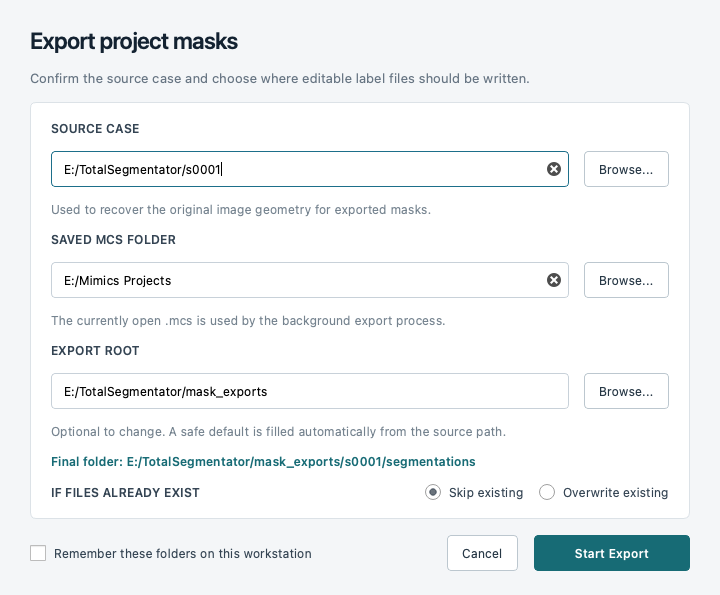
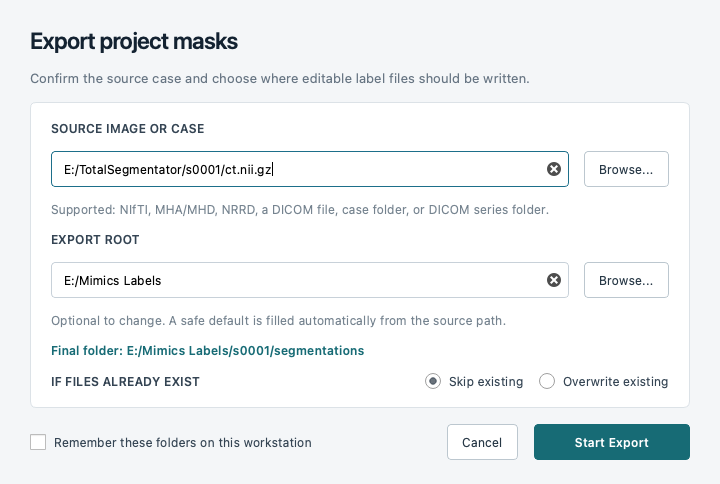
Simplify mask export path selection

diff --git a/runtime_py35/mimics_export.py b/runtime_py35/mimics_export.py
@@ -221,7 +221,7 @@ def _find_mimics_exe():
     return None
 
 
-def _launch_background_batch_export(ts_root, cases_filter, axes, flips, label_output_root=None, overwrite_existing=False, case_dirs=None, mcs_output_dir=None):
+def _launch_background_batch_export(ts_root, cases_filter, axes, flips, label_output_root=None, overwrite_existing=False, case_dirs=None, mcs_output_dir=None, mcs_paths=None, source_image_paths=None):
     """Launch batch export in a separate background Mimics process."""
     output_dir = os.path.abspath(mcs_output_dir) if mcs_output_dir else _resolve_export_output_dir(ts_root)
     if not os.path.isdir(output_dir):
@@ -245,6 +245,8 @@ def _launch_background_batch_export(ts_root, cases_filter, axes, flips, label_ou
             "label_output_root": os.path.abspath(label_output_root) if label_output_root else "",
             "overwrite_existing": bool(overwrite_existing),
             "case_dirs": dict(case_dirs or {}),
+            "mcs_paths": dict(mcs_paths or {}),
+            "source_image_paths": dict(source_image_paths or {}),
         },
     )
     with open(runner_path, "w") as f:
@@ -1024,7 +1026,7 @@ def _current_project_path():
     return ""
 
 
-def _active_source_case_dir():
+def _active_source_path():
     try:
         image = mimics.data.images.get_active()
     except Exception:
@@ -1032,15 +1034,14 @@ def _active_source_case_dir():
     source = _metadata_get(image, SOURCE_IMAGE_PATH_METADATA, "") if image is not None else ""
     if not source:
         return ""
-    source = os.path.abspath(str(source))
-    return os.path.dirname(source) if os.path.isfile(source) else source
+    return os.path.abspath(str(source))
 
 
-def _run_main_with_args(args):
+def _run_main_with_args(args, source_info_override=None):
     previous = list(sys.argv)
     try:
         sys.argv = [previous[0]] + list(args)
-        return main()
+        return main(source_info_override=source_info_override)
     finally:
         sys.argv = previous
 
@@ -1052,23 +1053,23 @@ def _launch_external_export_setup():
     if not project_path or not project_path.lower().endswith(".mcs"):
         raise RuntimeError("Save the current Mimics project before exporting masks.")
     case_id = _current_project_case_id() or os.path.splitext(os.path.basename(project_path))[0]
-    source_initial = _active_source_case_dir()
+    source_initial = _active_source_path()
 
     def submitted(selection):
         source = str(selection.get("source_path", "") or "")
         export_root = str(selection.get("output_path", "") or "")
-        mcs_dir = str(selection.get("mcs_dir", "") or "")
-        if not source or not export_root or not mcs_dir:
-            raise RuntimeError("The source, saved project, and export paths are required.")
+        source_info = selection.get("case_info") or {}
+        if not source or not export_root or not source_info.get("image"):
+            raise RuntimeError("The source image and export destination are required.")
         args = [
-            "--case-dir", source,
-            "--mcs-dir", mcs_dir,
+            "--case-dir", str(source_info.get("case_dir") or source),
+            "--mcs-path", project_path,
             "--label-output-root", export_root,
             "--external-setup",
         ]
         if selection.get("conflict_policy") == "overwrite":
             args.append("--overwrite-source")
-        _run_main_with_args(args)
+        _run_main_with_args(args, source_info_override=source_info)
 
     return io_setup_mimics.launch(
         "export_masks",
@@ -1076,7 +1077,6 @@ def _launch_external_export_setup():
         {
             "case_id": case_id,
             "source_initial": source_initial,
-            "mcs_dir_initial": os.path.dirname(project_path),
             # mimics_output_dir controls .mcs storage only. It must never
             # silently redirect exported label files.
             "configured_output": "",
@@ -1087,7 +1087,7 @@ def _launch_external_export_setup():
 
 # -- Single case export -------------------------------------------------
 
-def _export_masks_and_build_params(case_dir, axes, flips, work_dir, output_seg_dir=None, export_space="source_image", mask_names=None, overwrite_existing=None):
+def _export_masks_and_build_params(case_dir, axes, flips, work_dir, output_seg_dir=None, export_space="source_image", mask_names=None, overwrite_existing=None, source_image_path=None):
     """Export masks to .u8 buffers and build bridge params. Returns (bridge_params, manifest) or None."""
     print("Exporting masks to: {0}".format(case_dir))
 
@@ -1124,7 +1124,9 @@ def _export_masks_and_build_params(case_dir, axes, flips, work_dir, output_seg_d
             active_image = mimics.data.masks[0].image if len(mimics.data.masks) else None
         except Exception:
             active_image = None
-    source_image_path = _metadata_get(active_image, SOURCE_IMAGE_PATH_METADATA, "") if active_image is not None else ""
+    source_image_path = str(source_image_path or "")
+    if not source_image_path and active_image is not None:
+        source_image_path = _metadata_get(active_image, SOURCE_IMAGE_PATH_METADATA, "")
     if source_image_path:
         bridge_params["source_image_path"] = str(source_image_path)
     if output_seg_dir:
@@ -1264,7 +1266,7 @@ def run_background_batch_export(config_path):
         for index, case_info in enumerate(cases):
             case_id = case_info["case_id"]
             case_dir = case_info["case_dir"]
-            mcs_path = os.path.join(output_dir, case_id + ".mcs")
+            mcs_path = str((config.get("mcs_paths") or {}).get(case_id) or os.path.join(output_dir, case_id + ".mcs"))
             work_dir = os.path.join(output_dir, case_id + "_export_work")
             _write_json_atomic(
                 os.path.join(export_root, "_export_batch_status.json"),
@@ -1301,6 +1303,7 @@ def run_background_batch_export(config_path):
                     export_space=export_space,
                     mask_names=mask_names,
                     overwrite_existing=(True if label_staging_dir else overwrite_existing),
+                    source_image_path=(config.get("source_image_paths") or {}).get(case_id),
                 )
                 try:
                     mimics.file.close_project()
@@ -1359,7 +1362,7 @@ def run_background_batch_export(config_path):
 
 # -- Main entry ---------------------------------------------------------
 
-def main():
+def main(source_info_override=None):
     """Entry point.
 
     Usage:
@@ -1386,6 +1389,7 @@ def main():
     label_output_root = None
     overwrite_existing = False
     mcs_dir = None
+    mcs_path_override = None
     external_setup = False
 
     args = sys.argv[1:]
@@ -1414,6 +1418,9 @@ def main():
         elif arg == "--mcs-dir" and i + 1 < len(args):
             mcs_dir = args[i + 1]
             i += 2
+        elif arg == "--mcs-path" and i + 1 < len(args):
+            mcs_path_override = args[i + 1]
+            i += 2
         elif arg == "--overwrite-source":
             overwrite_existing = True
             i += 1
@@ -1432,8 +1439,12 @@ def main():
     if case_dir:
         case_id = _current_project_case_id() or os.path.basename(os.path.abspath(case_dir))
         ts_root = os.path.dirname(os.path.abspath(case_dir))
-        output_dir = os.path.abspath(mcs_dir) if mcs_dir else _resolve_export_output_dir(ts_root)
-        mcs_path = os.path.join(output_dir, case_id + ".mcs")
+        if mcs_path_override:
+            mcs_path = os.path.abspath(mcs_path_override)
+            output_dir = os.path.dirname(mcs_path)
+        else:
+            output_dir = os.path.abspath(mcs_dir) if mcs_dir else _resolve_export_output_dir(ts_root)
+            mcs_path = os.path.join(output_dir, case_id + ".mcs")
         if not os.path.isfile(mcs_path):
             mimics.dialogs.message_box(
                 title="Export Error",
@@ -1455,6 +1466,8 @@ def main():
             overwrite_existing=overwrite_existing,
             case_dirs={case_id: os.path.abspath(case_dir)},
             mcs_output_dir=output_dir,
+            mcs_paths={case_id: mcs_path},
+            source_image_paths={case_id: str((source_info_override or {}).get("image") or "")},
         )
         if process is None:
             mimics.dialogs.message_box(

diff --git a/tools/io_path_setup_ui.py b/tools/io_path_setup_ui.py
@@ -81,6 +81,11 @@ def discover_single_source(source):
             if _medical_file(os.path.join(case_dir, name))
         ]
         allow_masks = len(sibling_images) <= 1
+    elif os.path.isfile(selected) and selected.lower().endswith(".dcm"):
+        case_dir = os.path.dirname(selected)
+        case_id = os.path.basename(case_dir.rstrip("\\/")) or _image_stem(selected)
+        image = case_dir
+        allow_masks = True
     elif os.path.isdir(selected):
         case_dir = selected
         case_id = os.path.basename(case_dir.rstrip("\\/")) or "case"
@@ -136,7 +141,7 @@ def run_ui(context, preview_path=""):
     window.setObjectName("ioWindow")
     window.setModal(False)
     window.setMinimumWidth(680)
-    window.resize(720, 510 if mode == "export_masks" else 440)
+    window.resize(720, 455 if mode == "export_masks" else 440)
     window.setWindowTitle({
         "import_batch": "Import Dataset",
         "import_single": "Import Single Case",
@@ -208,7 +213,7 @@ def run_ui(context, preview_path=""):
                 choose_folder = menu.addAction("Choose case or DICOM folder")
                 action = menu.exec(button.mapToGlobal(QtCore.QPoint(0, button.height())))
                 if action == choose_file:
-                    value, _ = QtWidgets.QFileDialog.getOpenFileName(window, "Choose 3D image", current, "Medical volumes (*.nii *.nii.gz *.mha *.mhd *.nrrd);;All files (*)")
+                    value, _ = QtWidgets.QFileDialog.getOpenFileName(window, "Choose 3D image", current, "Medical volumes (*.nii *.nii.gz *.mha *.mhd *.nrrd *.dcm);;All files (*)")
                 elif action == choose_folder:
                     value = QtWidgets.QFileDialog.getExistingDirectory(window, "Choose case or DICOM folder", current)
                 else:
@@ -224,14 +229,10 @@ def run_ui(context, preview_path=""):
         return edit
 
     source_initial = context.get("source_initial") or remembered_mode.get("source_path", "")
-    if mode == "import_single":
-        source_edit = path_row("SOURCE IMAGE OR CASE", source_initial, file_or_folder=True, hint="Supported: NIfTI, MHA/MHD, NRRD, a case folder, or a DICOM series folder.")
+    if mode in ("import_single", "export_masks"):
+        source_edit = path_row("SOURCE IMAGE OR CASE", source_initial, file_or_folder=True, hint="Supported: NIfTI, MHA/MHD, NRRD, a DICOM file, case folder, or DICOM series folder.")
     else:
-        source_edit = path_row("SOURCE DATASET" if mode == "import_batch" else "SOURCE CASE", source_initial, hint="Required. This path is never modified by import." if mode.startswith("import") else "Used to recover the original image geometry for exported masks.")
-
-    mcs_edit = None
-    if mode == "export_masks":
-        mcs_edit = path_row("SAVED MCS FOLDER", context.get("mcs_dir_initial") or remembered_mode.get("mcs_dir", ""), hint="The currently open .mcs is used by the background export process.")
+        source_edit = path_row("SOURCE DATASET", source_initial, hint="Required. This path is never modified by import.")
 
     output_initial = context.get("output_initial") or remembered_mode.get("output_path", "")
     output_edit = path_row("MCS OUTPUT FOLDER" if mode.startswith("import") else "EXPORT ROOT", output_initial, hint="Optional to change. A safe default is filled automatically from the source path.")
@@ -266,7 +267,7 @@ def run_ui(context, preview_path=""):
             output_preview.setText("Final folder: {0}".format(os.path.join(output, case_id, "segmentations")) if output else "")
         else:
             output_preview.setText("Mimics projects: {0}".format(output) if output else "")
-        submit.setEnabled(bool(source and output and (mcs_edit is None or mcs_edit.text().strip())))
+        submit.setEnabled(bool(source and output))
 
     def output_edited(_text):
         if output_edit.hasFocus() or bool(output_edit.property("chosenByBrowse")):
@@ -276,9 +277,6 @@ def run_ui(context, preview_path=""):
 
     source_edit.textChanged.connect(lambda _text: refresh_default())
     output_edit.textChanged.connect(output_edited)
-    if mcs_edit is not None:
-        mcs_edit.textChanged.connect(lambda _text: refresh_default())
-
     footer = QtWidgets.QHBoxLayout()
     remember = QtWidgets.QCheckBox("Remember these folders on this workstation")
     remember.setChecked(bool(remembered_mode))
@@ -302,18 +300,14 @@ def run_ui(context, preview_path=""):
         if not os.path.exists(source):
             QtWidgets.QMessageBox.warning(window, "Source Not Found", "Choose an existing source file or folder.")
             return
-        if mcs_edit is not None and not os.path.isdir(os.path.abspath(os.path.expanduser(mcs_edit.text().strip()))):
-            QtWidgets.QMessageBox.warning(window, "MCS Folder Not Found", "Choose the folder containing the saved .mcs project.")
-            return
         selection = {"source_path": source, "output_path": output, "remember": bool(remember.isChecked())}
-        if mode == "import_single":
+        if mode in ("import_single", "export_masks"):
             case_info = discover_single_source(source)
             if not case_info:
                 QtWidgets.QMessageBox.warning(window, "Unsupported Source", "No supported 3D image or DICOM folder was found.")
                 return
             selection["case_info"] = case_info
-        if mcs_edit is not None:
-            selection["mcs_dir"] = os.path.abspath(os.path.expanduser(mcs_edit.text().strip()))
+        if mode == "export_masks":
             selection["conflict_policy"] = "overwrite" if overwrite_radio.isChecked() else "skip"
         if remember.isChecked() and state_path:
             state = read_json(state_path, {}) or {}

diff --git a/tools/fake_mimics_flow_test.py b/tools/fake_mimics_flow_test.py
@@ -624,9 +624,15 @@ def test_external_io_setup_routing(fake, tmp):
                 callback({"source_path": str(tmp / "dataset"), "output_path": str(tmp / "chosen_mcs")})
             elif mode == "export_masks":
                 callback({
-                    "source_path": str(tmp / "dataset" / "s0001"),
+                    "source_path": str(tmp / "dataset" / "s0001" / "ct.nii.gz"),
                     "output_path": str(tmp / "chosen_labels"),
-                    "mcs_dir": str(tmp / "saved_projects"),
+                    "case_info": {
+                        "case_id": "s0001",
+                        "image": str(tmp / "dataset" / "s0001" / "ct.nii.gz"),
+                        "case_dir": str(tmp / "dataset" / "s0001"),
+                        "image_type": "medical_image",
+                        "masks": [],
+                    },
                     "conflict_policy": "skip",
                 })
             return 0
@@ -635,7 +641,7 @@ def test_external_io_setup_routing(fake, tmp):
         import_module._python_exe = lambda: "external-python"
         export_module._python_exe = lambda: "external-python"
         import_module._run_main_with_args = lambda args, import_mode=None, case_info_override=None: launched.append(("import", list(args))) or 0
-        export_module._run_main_with_args = lambda args: launched.append(("export", list(args))) or 0
+        export_module._run_main_with_args = lambda args, source_info_override=None: launched.append(("export", list(args), source_info_override)) or 0
         import_module._launch_external_import_setup(None)
 
         project = tmp / "saved_projects" / "s0001.mcs"
@@ -653,9 +659,11 @@ def test_external_io_setup_routing(fake, tmp):
     assert_true("--output-dir" in launched[0][1], "chosen import output was not routed")
     assert_true(str(tmp / "chosen_mcs") in launched[0][1], "chosen import output path missing")
     assert_equal(captured[1][0], "export_masks", "mask export setup mode")
-    assert_true("--mcs-dir" in launched[1][1], "saved project folder was not routed")
+    assert_true("--mcs-path" in launched[1][1], "current project path was not routed")
+    assert_true(str(project) in launched[1][1], "current project path is incorrect")
     assert_true(str(tmp / "chosen_labels") in launched[1][1], "chosen label destination missing")
     assert_true("--overwrite-source" not in launched[1][1], "skip policy became overwrite")
+    assert_equal(launched[1][2]["image"], str(tmp / "dataset" / "s0001" / "ct.nii.gz"), "explicit source image was not routed")
     return "external PySide6 selections route explicit import/export paths"
 
 

diff --git a/tools/test_all.py b/tools/test_all.py
@@ -2412,6 +2412,12 @@ class TestNewFeatures(unittest.TestCase):
         discovered = io_ui.discover_single_source(image_path)
         self.assertEqual("ct", discovered["case_id"])
         self.assertEqual(os.path.abspath(image_path), discovered["image"])
+        dcm_path = os.path.join(case_dir, "slice001.dcm")
+        with open(dcm_path, "wb") as handle:
+            handle.write(b"candidate")
+        dicom_source = io_ui.discover_single_source(dcm_path)
+        self.assertEqual(os.path.abspath(case_dir), dicom_source["image"])
+        self.assertEqual("dicom_candidate", dicom_source["image_type"])
         import_source = inspect.getsource(mimics_import.main)
         export_source = inspect.getsource(mimics_export.main)
         self.assertIn("_launch_external_import_setup", import_source)
@@ -2423,6 +2429,8 @@ class TestNewFeatures(unittest.TestCase):
         export_setup = inspect.getsource(mimics_export._launch_external_export_setup)
         self.assertIn('"configured_output": ""', export_setup)
         self.assertIn('"--external-setup"', export_setup)
+        self.assertIn('"--mcs-path"', export_setup)
+        self.assertNotIn('"--mcs-dir"', export_setup)
         async_launch = inspect.getsource(mimics_export._launch_background_batch_export_async)
         self.assertIn("thread.start()", async_launch)
 

diff --git a/docs/scripting_library_workflows.md b/docs/scripting_library_workflows.md
@@ -37,11 +37,13 @@ resampling run in external Python. Mimics applies one prepared Mask per GUI
 timer tick; empty results are rejected with a spatial-alignment warning.
 
 `03 Export Masks` exports every Mask in the saved project, including hidden
-Masks. Select the source case directory and then the destination root. Output
-is written to `<chosen root>/<case>/segmentations/*.nii.gz`. Choose `Skip
-existing` or `Overwrite existing` in the same external setup window. The
-window also shows the folder containing the saved `.mcs`; this defaults to the
-current project location and is independent from the label destination.
+Masks. Select the source image or case and then the destination root. The source
+may be NIfTI, MHA/MHD, NRRD, one DICOM file, a DICOM series folder, or a case
+folder containing one of those forms. Output is written to `<chosen
+root>/<case>/segmentations/*.nii.gz`. Choose `Skip existing` or `Overwrite
+existing` in the same external setup window. The currently open `.mcs` path is
+read from Mimics and passed to the background process automatically; it is not
+a user-configurable data path.
 `mimics_output_dir` never redirects exported labels. External batch export uses
 `tools/mimics_batch_cli.py export-labels` and requires an explicit destination
 policy through either `--output-dir` or `--overwrite-source`.
